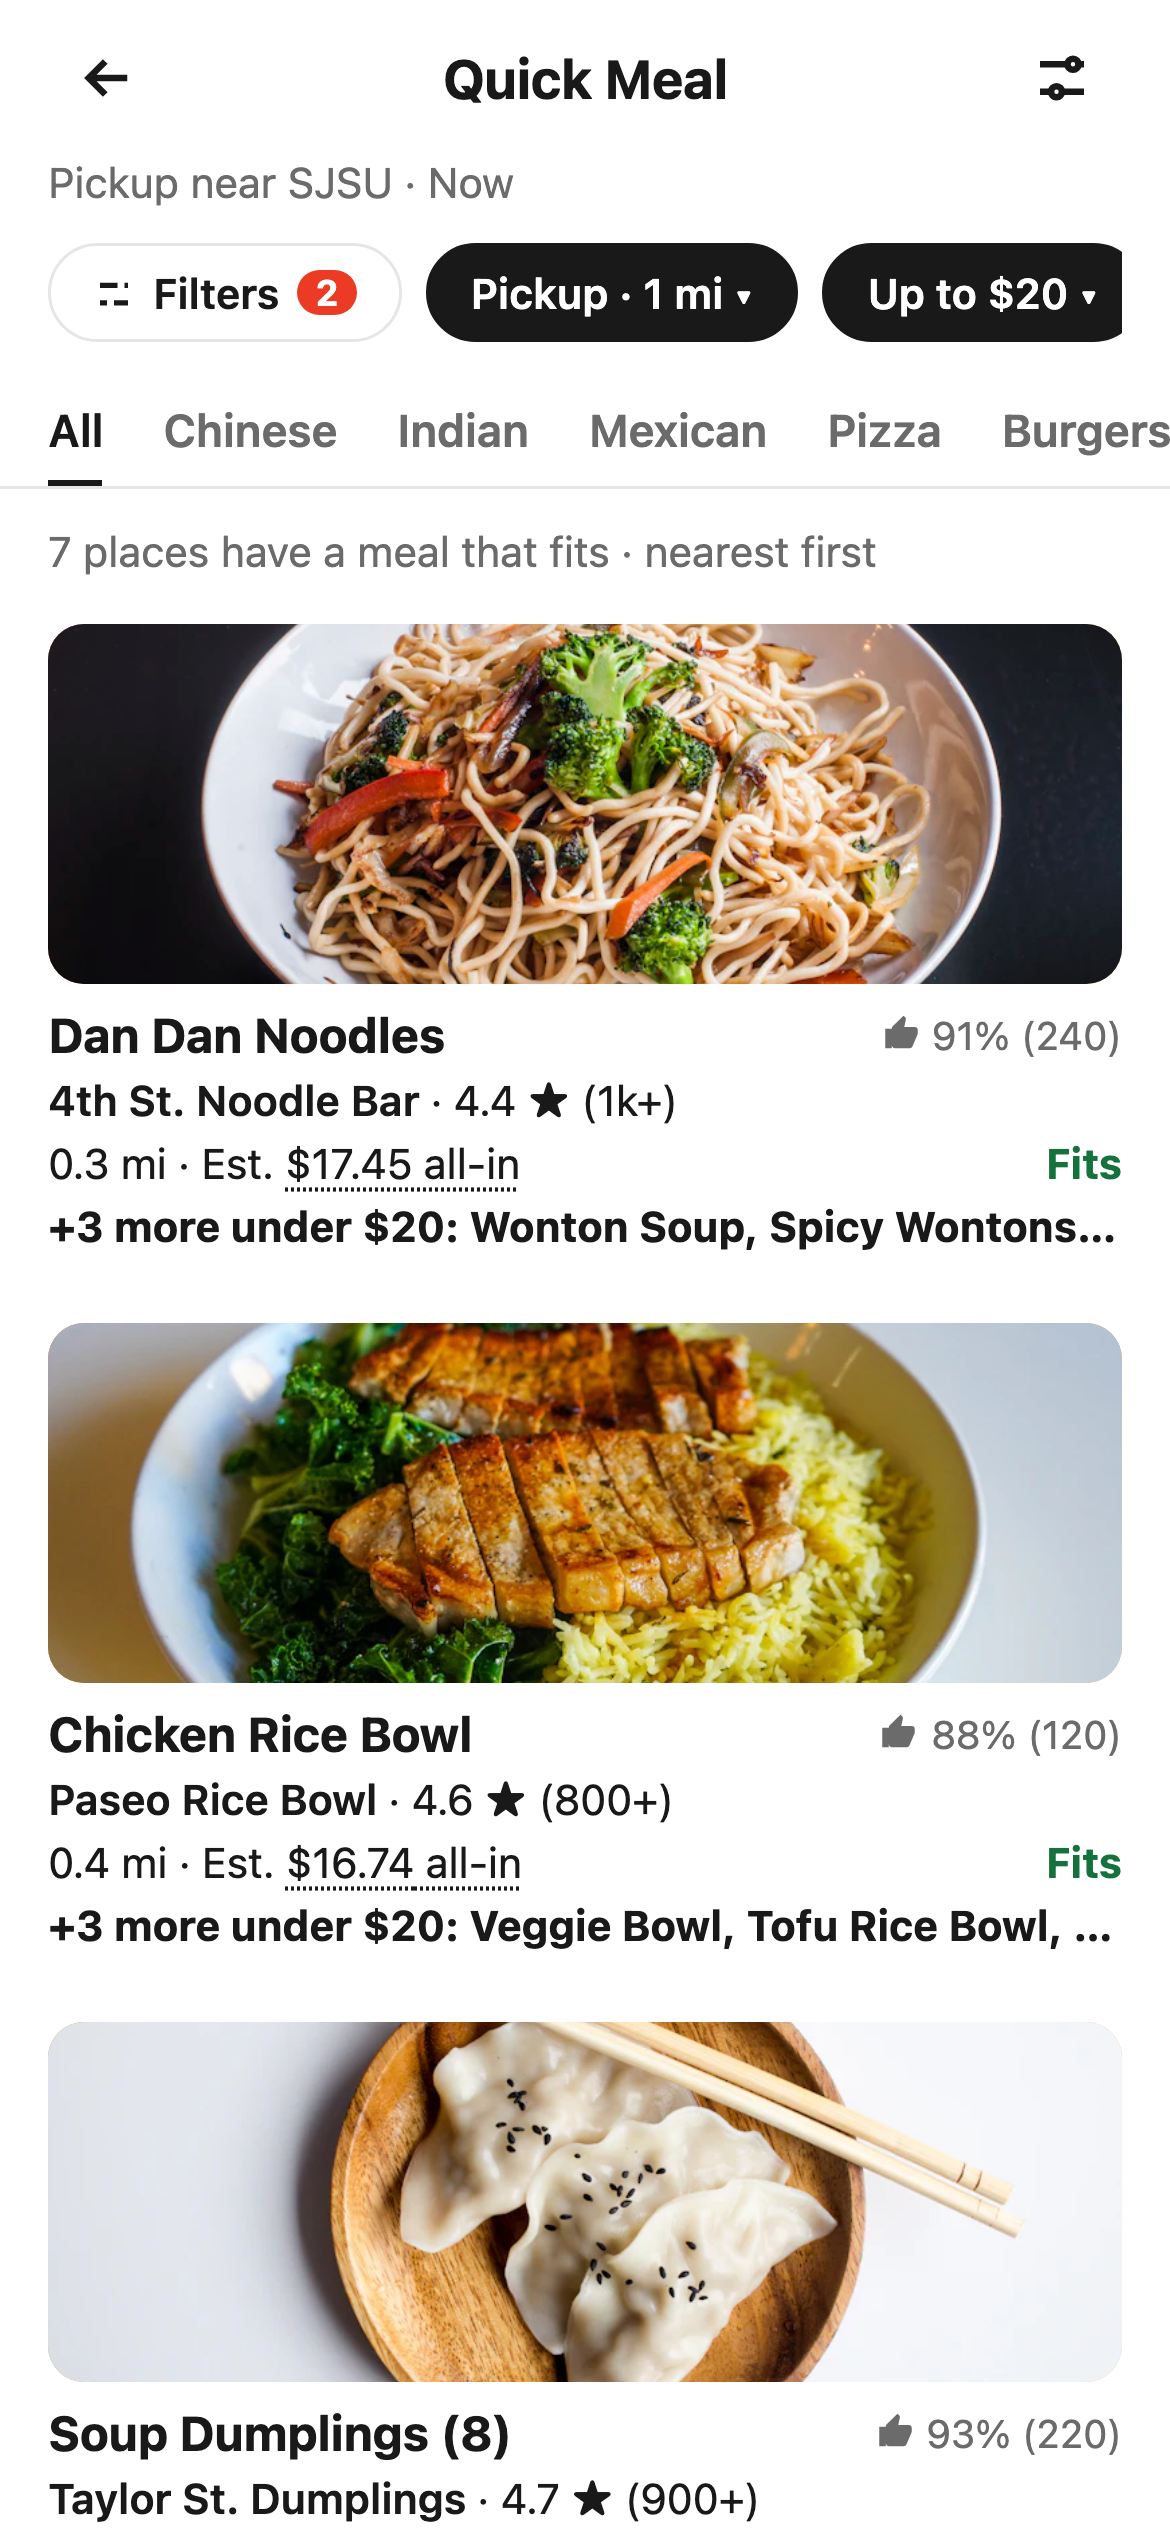
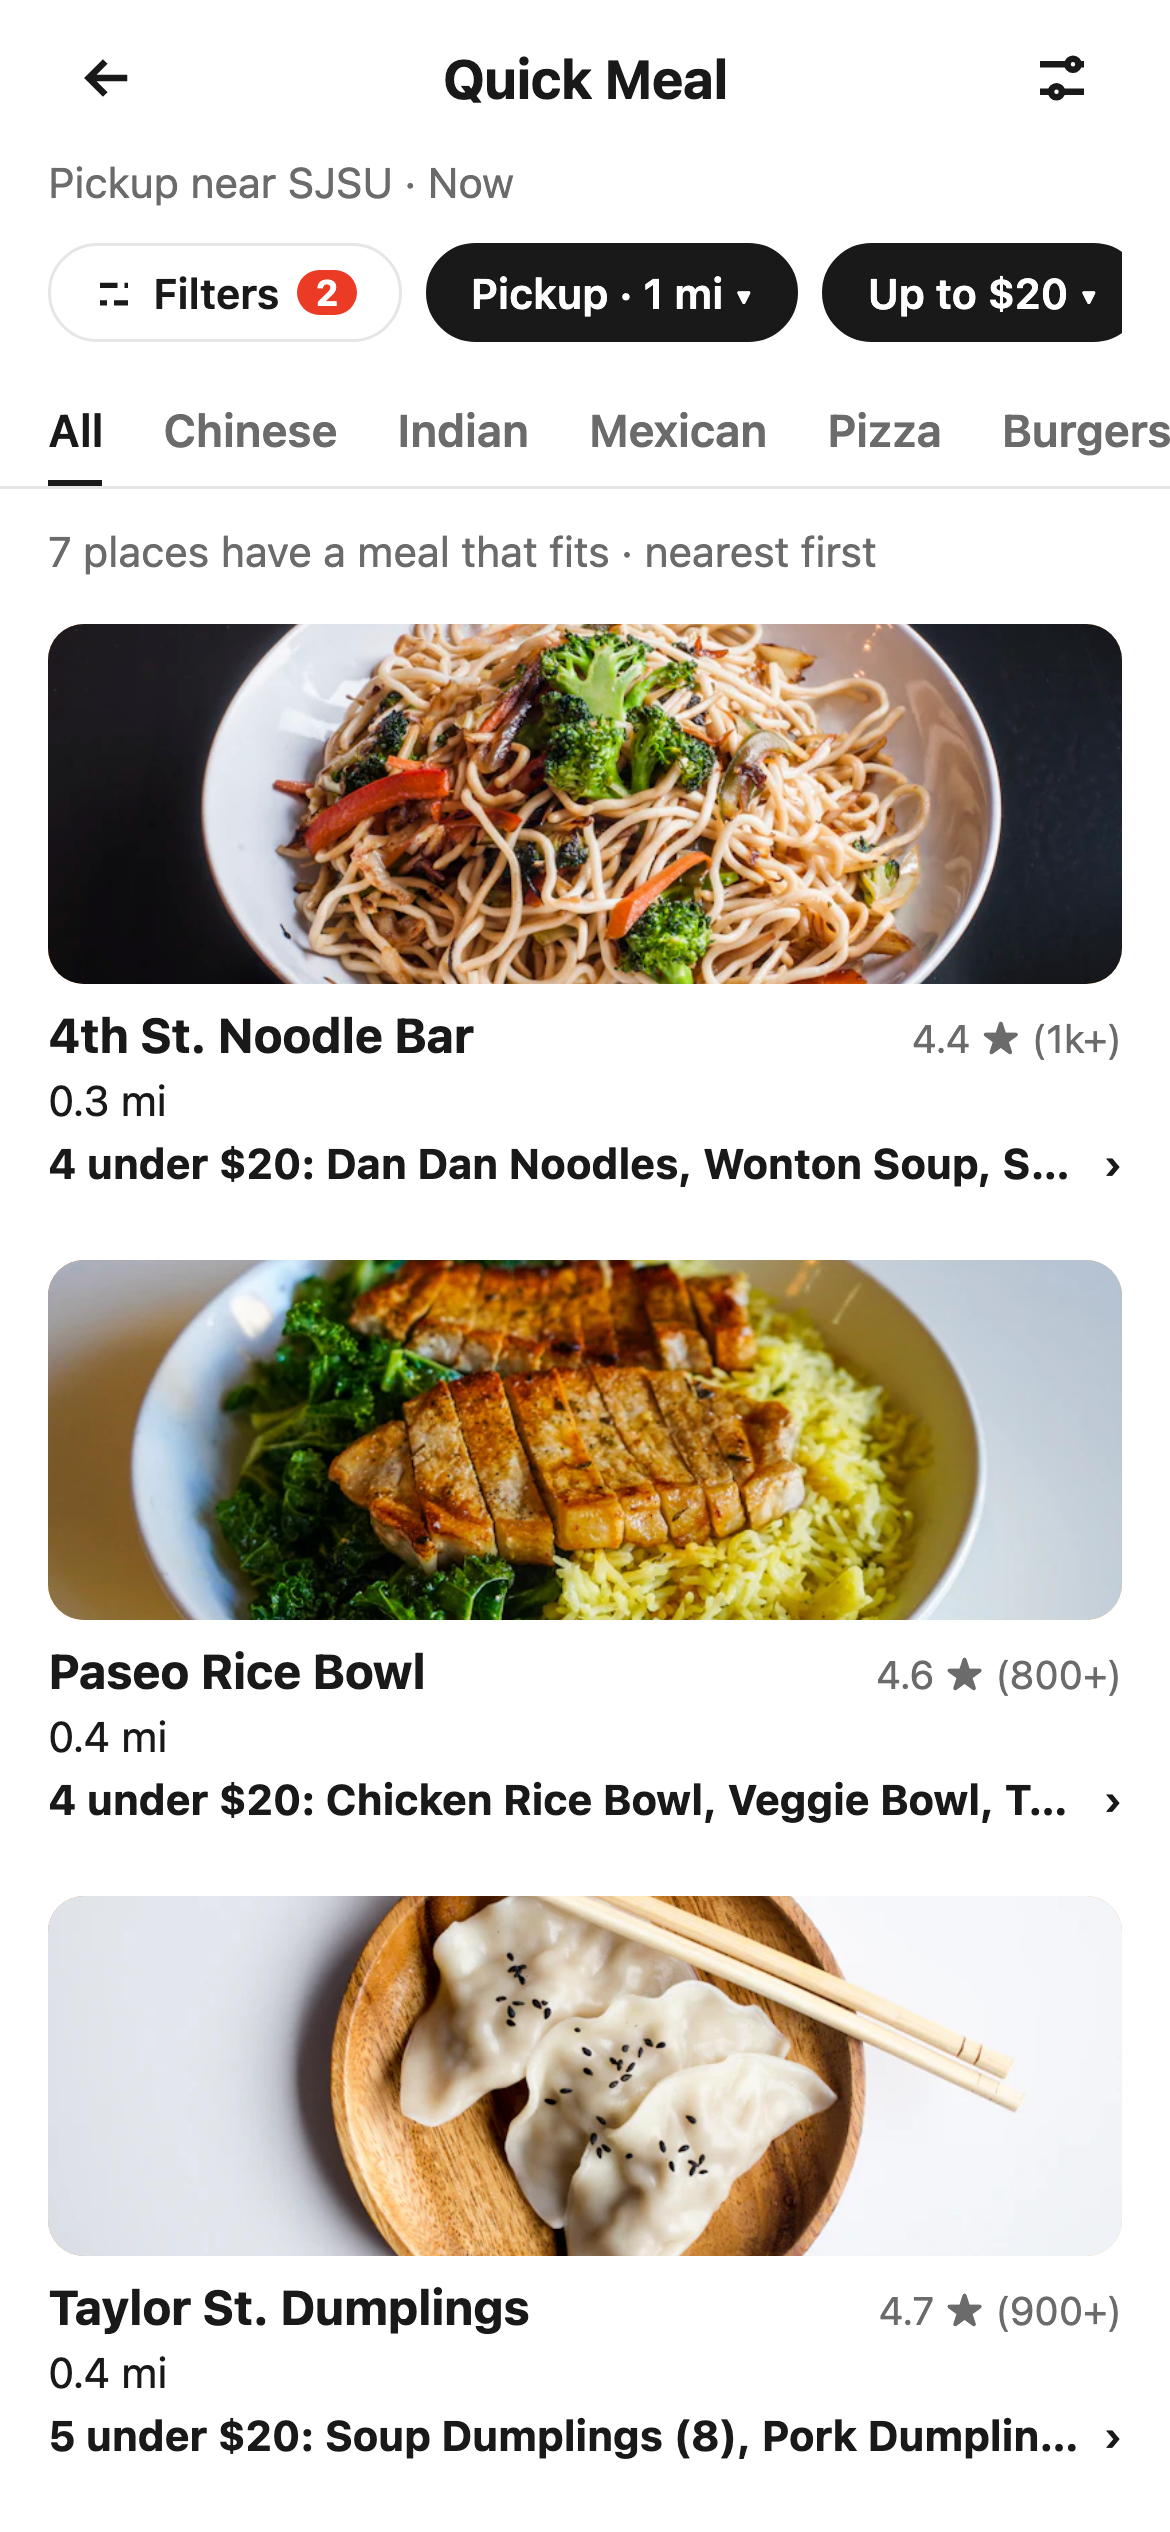
Record the validation run for the restaurant-cards variant

Changed region(s): [[0.0308, 0.4056, 0.9846, 0.9984]]

diff --git a/docs/validation.md b/docs/validation.md
@@ -1,25 +1,28 @@
 # Validation
 
-- Date: 2026-10-02
-- Live URL: https://quick-meal-demo.ioenv.workers.dev
-- Deployed commit: `b3d6374`
-- Worker version: `f24cd18d-50ff-44b9-bf0e-4aff3cfa9559`
+This branch (`restaurant-cards`) is the restaurant-cards variant, design version 37. It runs on its own Worker. The main demo and its validation stay on `main`.
 
-Every acceptance criterion from the "Validation" section of [design.html](design.html) was run as an automated Playwright test against the live URL.
+- Date: 2026-10-02
+- Live URL: https://quick-meal-demo-cards.ioenv.workers.dev
+- Deployed commit: `403dd88`
+- Worker version: `79286579-58e9-4239-8d57-ba31e668f7b7`
+- Main demo (not changed): https://quick-meal-demo.ioenv.workers.dev, commit `b3d6374`
+
+Every acceptance criterion from the "Validation" section of [design.html](design.html) (version 37) was run as an automated Playwright test against the live variant URL.
 
 ## Results
 
 | ID | Feature | Result | Note |
 |---|---|---|---|
-| AC-01 | **Quick Meal entry.** Given the Home screen, when the user taps Quick Meal in the category row, then the Quick Meal screen opens with the chip row (Filters, Time, Budget), the cuisine tabs below it (All selected) and a list of meal cards, with no Restaurant or Grocery tabs. | Pass | `e2e/list.spec.ts`: "AC-01: Home opens Quick Meal with chips, tabs and meal cards" |
-| AC-02 | **All-in budget.** Given a budget of $20, when results load, then every card shows a meal with an estimated all-in price of $20.00 or less, and the breakdown behind any price (item, delivery fee, small-order fee, service fee, tax, tip) adds up to that price to the cent, and the small-order fee appears only when the item costs less than $12. | Pass | `e2e/list.spec.ts`: "AC-02: every price fits the budget and each breakdown adds up" |
-| AC-03 | **Filters sheet.** Given the Filters sheet, opened from either the top-right icon or the Filters chip, when the user sets the time to 30 min and the budget to $20, then the time group comes first and asks "How much time do you have?", the button reads "Show results", and after applying the list shows 6 meal cards from 6 different places, the chips read "30 min" and "Up to $20", and the Filters badge shows 2. | Pass | `e2e/filters.spec.ts`: "AC-03: the Filters sheet opens from the chip and the top-right icon" |
+| AC-01 | **Quick Meal entry.** Given the Home screen, when the user taps Quick Meal in the category row, then the Quick Meal screen opens with the chip row (Filters, Time, Budget), the cuisine tabs below it (All selected) and a list of restaurant cards, with no Restaurant or Grocery tabs. | Pass | `e2e/list.spec.ts`: "AC-01: Home opens Quick Meal with chips, tabs and meal cards" |
+| AC-02 | **All-in budget.** Given a budget of $20, when results load, then every card's dish line counts only meals with an estimated all-in price of $20.00 or less, every "Under your budget" row on its menu is $20.00 or less, and the breakdown behind any price (item, delivery fee, small-order fee, service fee, tax, tip) adds up to that price to the cent, and the small-order fee appears only when the item costs less than $12. | Pass | `e2e/list.spec.ts`: "AC-02: every card counts only meals that fit, and each menu breakdown adds up" |
+| AC-03 | **Filters sheet.** Given the Filters sheet, opened from either the top-right icon or the Filters chip, when the user sets the time to 30 min and the budget to $20, then the time group comes first and asks "How much time do you have?", the button reads "Show results", and after applying the list shows 6 restaurant cards, the chips read "30 min" and "Up to $20", and the Filters badge shows 2. | Pass | `e2e/filters.spec.ts`: "AC-03: the Filters sheet opens from the chip and the top-right icon" |
 | AC-04 | **Combined filters.** Given budget $20 and time 20 min are on, when the user taps the Chinese tab, then every card is a Chinese place that passes both filters, and the count (2) is lower than on the All tab (4). | Pass | `e2e/list.spec.ts`: "AC-04: a cuisine tab splits the filtered meals and keeps the chips" |
 | AC-05 | **No match and relax.** Given budget $15 and time 15 min, when results load, then the screen shows "No exact matches", up to 5 closest meals each labeled with how it misses (for example "1 min slower" or "$1.32 over budget"), and relax chips with result counts. When the user taps "Budget up to $17 · 1 result", the list shows exactly 1 meal and the slider moves to $17, while the saved default budget stays at $15. | Pass | `e2e/no-match.spec.ts`: "AC-05: no exact match shows the message, relax chips and near cards", "a relax chip loosens the view" and "a relax chip does not change the saved default" |
-| AC-06 | **Menu in budget view.** Given a budget of $20, when the user taps "+2 more" on the Paseo Rice Bowl card, then the menu opens with "Under your budget (3)" listing the Chicken Rice Bowl first (the card's meal), then the Tofu Rice Bowl and Spam Musubi Plate, and the Veggie Bowl shows "$0.54 over". | Pass | `e2e/menu.spec.ts`: "AC-06: the menu shows what fits first, then what is just over" |
-| AC-07 | **Saved default.** Given the user applied budget $20 and time 30 min and is on the Chinese tab, when they leave Quick Meal and come back, including after closing the browser tab, then budget $20 and time 30 min are on, the All tab is selected, and the 6 meal cards for $20 · 30 min show. | Pass | `e2e/filters.spec.ts`: "AC-07: applied filters come back next visit, the cuisine tab does not" |
-| AC-08 | **Estimated times.** Given time 30 min and budget $20, when results load, then every card shows one line like "Est. 9–14 min · 0.4 mi · $18.44 all-in", with the time as a range before the distance and price, the slow end of every range is 30 min or less, neither the time nor the price is bold, and the time group in the Filters sheet says "Not guaranteed." | Pass | `e2e/list.spec.ts`: "AC-08: times are estimated ranges" |
-| AC-09 | **Delivery or pickup.** Given budget $20 and time 30 min, when the user opens the Filters sheet and taps Pickup, then the time steps are replaced by 0.5 · 1 · 2 · 3 mi with none picked, and there is no "For pickup" text. When the user picks 1 mi and taps "Show results", the chip reads "Pickup · 1 mi", the URL has `distance=1` and no `time`, the Filters badge shows 2, the sort is Nearest, and the list shows 7 meal cards. Every card shows a line like "0.4 mi · Est. $16.74 all-in" with no time, and the Paseo Rice Bowl price breakdown has no delivery fee line and adds up to $16.74. | Pass | `e2e/filters.spec.ts`: "AC-09: Pickup swaps time for distance and drops the delivery fee" |
+| AC-06 | **Menu in budget view.** Given a budget of $20, when the user taps the Paseo Rice Bowl card's dish line, "3 under $20: Chicken Rice Bowl, Tofu Rice Bowl, …", then the menu opens with "Under your budget (3)" listing the Chicken Rice Bowl first (the first meal on the card), then the Tofu Rice Bowl and Spam Musubi Plate, and the Veggie Bowl shows "$0.54 over". | Pass | `e2e/menu.spec.ts`: "AC-06: the menu shows what fits first, then what is just over" |
+| AC-07 | **Saved default.** Given the user applied budget $20 and time 30 min and is on the Chinese tab, when they leave Quick Meal and come back, including after closing the browser tab, then budget $20 and time 30 min are on, the All tab is selected, and the 6 restaurant cards for $20 · 30 min show. | Pass | `e2e/filters.spec.ts`: "AC-07: applied filters come back next visit, the cuisine tab does not" |
+| AC-08 | **Estimated times.** Given time 30 min and budget $20, when results load, then every card shows one line like "Est. 9–14 min · 0.4 mi", with the time as a range before the distance, the slow end of every range is 30 min or less, no card shows a price, nothing in that line is bold, and the time group in the Filters sheet says "Not guaranteed." | Pass | `e2e/list.spec.ts`: "AC-08: times are estimated ranges and cards show no price" |
+| AC-09 | **Delivery or pickup.** Given budget $20 and time 30 min, when the user opens the Filters sheet and taps Pickup, then the time slider is replaced by a distance slider (0.5 · 1 · 2 · 3 mi · Any) set to Any, and there is no "For pickup" text. When the user slides to 1 mi and taps "Show results", the chip reads "Pickup · 1 mi", the URL has `distance=1` and no `time`, the Filters badge shows 2, the sort is Nearest, and the list shows 7 restaurant cards. Every card shows a line like "0.4 mi" with no time and no price. On the Paseo Rice Bowl menu, opened from its card, the Chicken Rice Bowl breakdown has no delivery fee line and adds up to $16.74. | Pass | `e2e/filters.spec.ts`: "AC-09: Pickup swaps time for distance and drops the delivery fee" |
 
 First deploy (`96522f6`): we ran the full suite three times. The first run started seconds after the deploy and had 6 failures (the first API call got a 404), most likely because the new Worker had not yet reached every edge location. Runs 2 and 3, a minute later, both passed 24 of 24.
 
@@ -33,18 +36,20 @@ After the follow-ups (`629eae8`: "Pickup near SJSU" and swapping Fastest and Nea
 
 After design version 36 (`b3d6374`: time and distance set with a slider, and a "Show results" button in the Time chip's sheet): 40 tests ran against the live URL and all passed, including AC-03, AC-07 and AC-09 with the slider. Shot 3 was saved again.
 
+Variant: restaurant cards (`7214fb9`, Worker `quick-meal-demo-cards`): 42 tests ran against the variant URL and all passed. The main demo was run again at the same time: 40 of 40 passed, so it did not change. The screenshots then showed that a long dish line pushed the card and its rating off screen. `403dd88` fixes this, and a new check in the card test failed on `7214fb9` and passes on `403dd88`. After that deploy, 42 tests ran against the variant URL and all passed. Shots 2, 3 and 6 were saved again.
+
 ## How to re-run
 
 Run all e2e tests against the live demo:
 
 ```sh
-BASE_URL=https://quick-meal-demo.ioenv.workers.dev npm run e2e
+BASE_URL=https://quick-meal-demo-cards.ioenv.workers.dev npm run e2e
 ```
 
 Save the screenshots below again (they are skipped in a normal run):
 
 ```sh
-SCREENSHOTS=1 BASE_URL=https://quick-meal-demo.ioenv.workers.dev npx playwright test e2e/screenshots.spec.ts
+SCREENSHOTS=1 BASE_URL=https://quick-meal-demo-cards.ioenv.workers.dev npx playwright test e2e/screenshots.spec.ts
 ```
 
 ## Screenshots
@@ -55,9 +60,9 @@ All shots are 390x844 at 3x, taken from the live URL.
 
 ![Home with Quick Meal first in the category row](screenshots/1-home.png)
 
-**2. Quick Meal list at 30 min and $20.** Must-have features: meal list with estimated times and all-in prices, cuisine tabs and chip row (time first). Also saved default (these are the filters that come back next visit).
+**2. Quick Meal list at 30 min and $20.** Must-have features: restaurant cards with estimated times and the meals that fit, cuisine tabs and chip row (time first). Also saved default (these are the filters that come back next visit).
 
-![Quick Meal list with 6 meals that fit](screenshots/2-list.png)
+![Quick Meal list with 6 places that have a meal that fits](screenshots/2-list.png)
 
 **3. Filters sheet.** Must-have feature: Filters sheet. Also saved default (applying saves the filters).
 
@@ -71,9 +76,9 @@ All shots are 390x844 at 3x, taken from the live URL.
 
 ![Paseo Rice Bowl menu with the price breakdown open](screenshots/5-menu-breakdown.png)
 
-**6. Pickup within 1 mi at $20.** Must-have feature: Filters sheet with the Delivery | Pickup switch (AC-09). Cards show the distance and no time, and prices have no delivery fee.
+**6. Pickup within 1 mi at $20.** Must-have feature: Filters sheet with the Delivery | Pickup switch (AC-09). Cards show the distance only: no time and no price. Menu prices have no delivery fee.
 
-![Quick Meal list in Pickup with 7 meals, nearest first](screenshots/6-pickup.png)
+![Quick Meal list in Pickup with 7 places, nearest first](screenshots/6-pickup.png)
 
 ## Manual walkthrough
 
